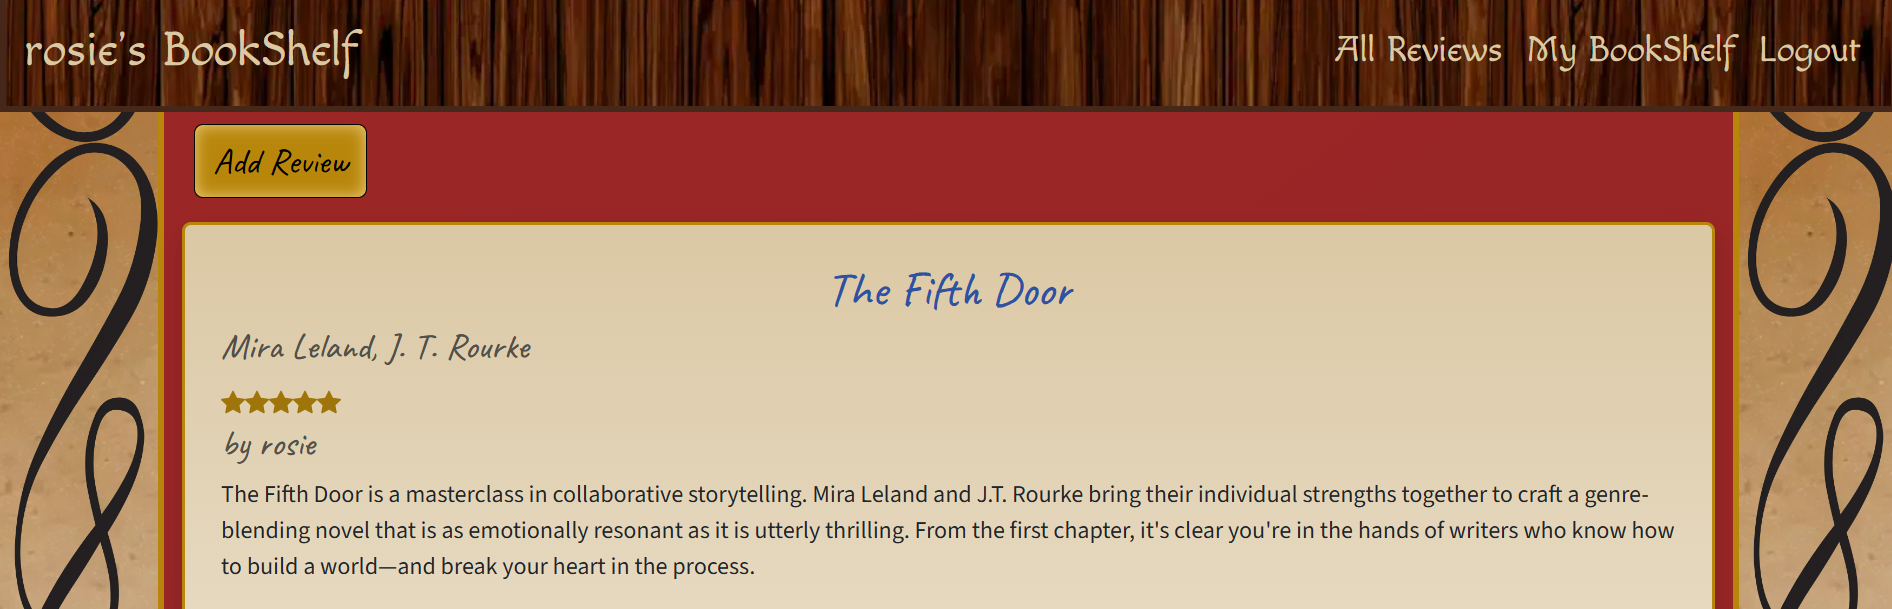
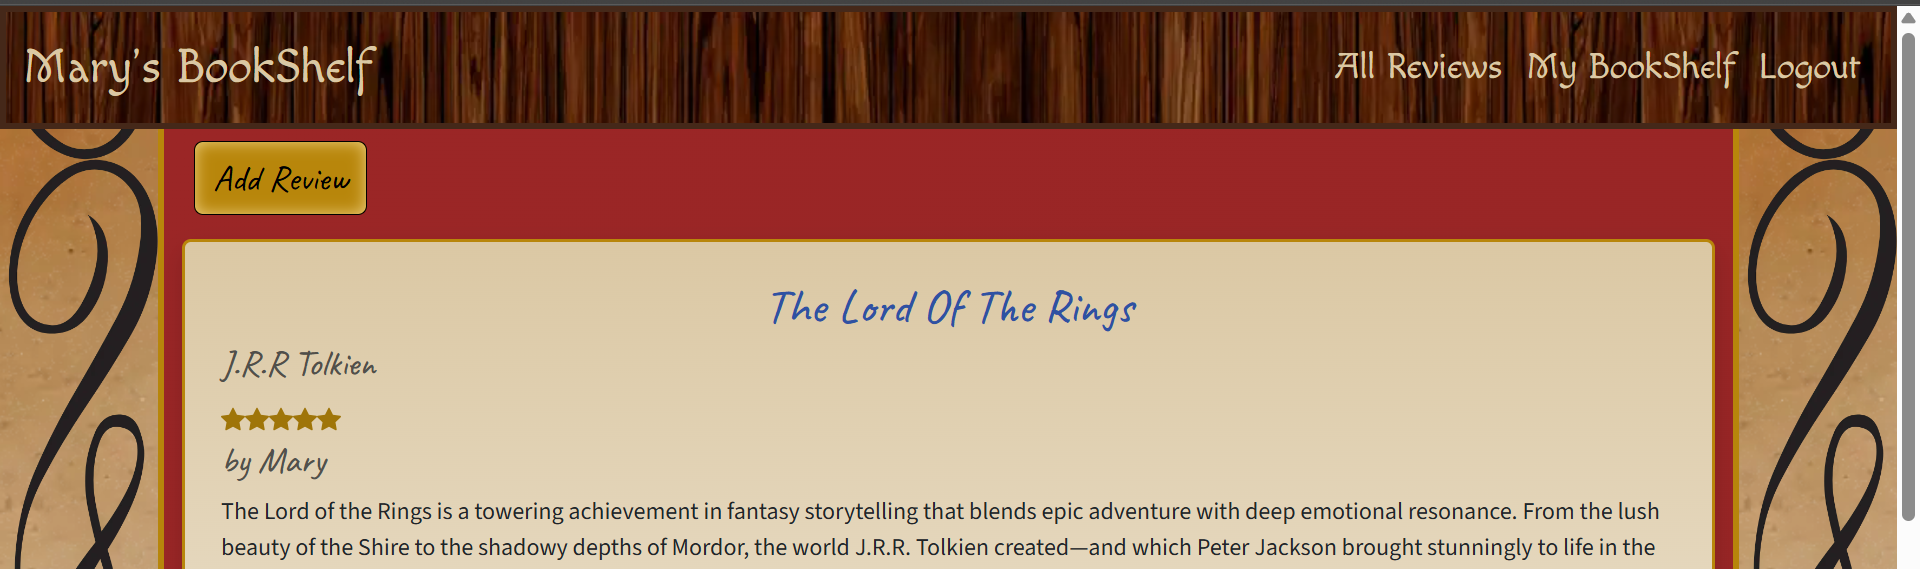
Add wireframes to README

diff --git a/README.md b/README.md
@@ -218,11 +218,42 @@ I considered using a monospaced or typewriter style font but, on testing, this w
 
 #### Wireframes
 
+Changes from wireframes to the site - originally I had the mobile view include the decorative scrollwork down the sides. However, after testing I found the content to be too cramped with this included. 
+
+
+<details>
+<summary>Mobile Wireframes</summary>
+
+![Homepage](documentation/wireframes/Mobile-ReviewList.png)
+![Alternate Homepage - with book covers](documentation/wireframes/Mobile-Covers-ReviewList.png)
+![Review Detail](documentation/wireframes/Mobile-ReviewDetail.png)
+![Add Review](documentation/wireframes/Mobile-AddReview.png)
+![Log In](documentation/wireframes/Mobile-LogIn.png)
+![Sign In](documentation/wireframes/Mobile-Register.png)
+
+</details>
+
+<details>
+<summary>Desktop Wireframes</summary>
+
+![Homepage](documentation/wireframes/Desktop-Homepage.png)
+![Review Detail](documentation/wireframes/Desktop-ReviewDetail.png)
+![Add Review](documentation/wireframes/Desktop-AddReview.png)
+
+</details>
+
+<details>
+<summary>Tablet Wireframes</summary>
+
+![Tablet - Homepage](documentation/wireframes/Tablet-Homepage.png)
+
+</details>
+
 ### Responsivity
 
 The site is fully responsive for mobile, tablet, and desktop. 
 
-
+<!--  images -->
 ### User stories
 
 My user stories focused on CRUD functionality, ease of use, account management, and accessibility.  
@@ -269,6 +300,8 @@ I took an agile approach to this project. I based my development tasks off user 
 To generate my user stories, I had several epics which I then used as my milestones for the project, allowing me to track my progress towards the MVP functionality. My epics included 'CRUD Functionality', 'User Authentication', and 'Front-End' (including accessibility, ease of use, responsivity etc).
 
 I used a Github Kanban Project Board to track and manage tasks throughout development. I had 3 columns - todo, in progress, and done. This way I could easily see what I had left to work on, and prioritise my tasks for the day.
+
+<!-- images  -->
 
 [Github Project Board](https://github.com/users/RosieTrainor/projects/9)  
 
